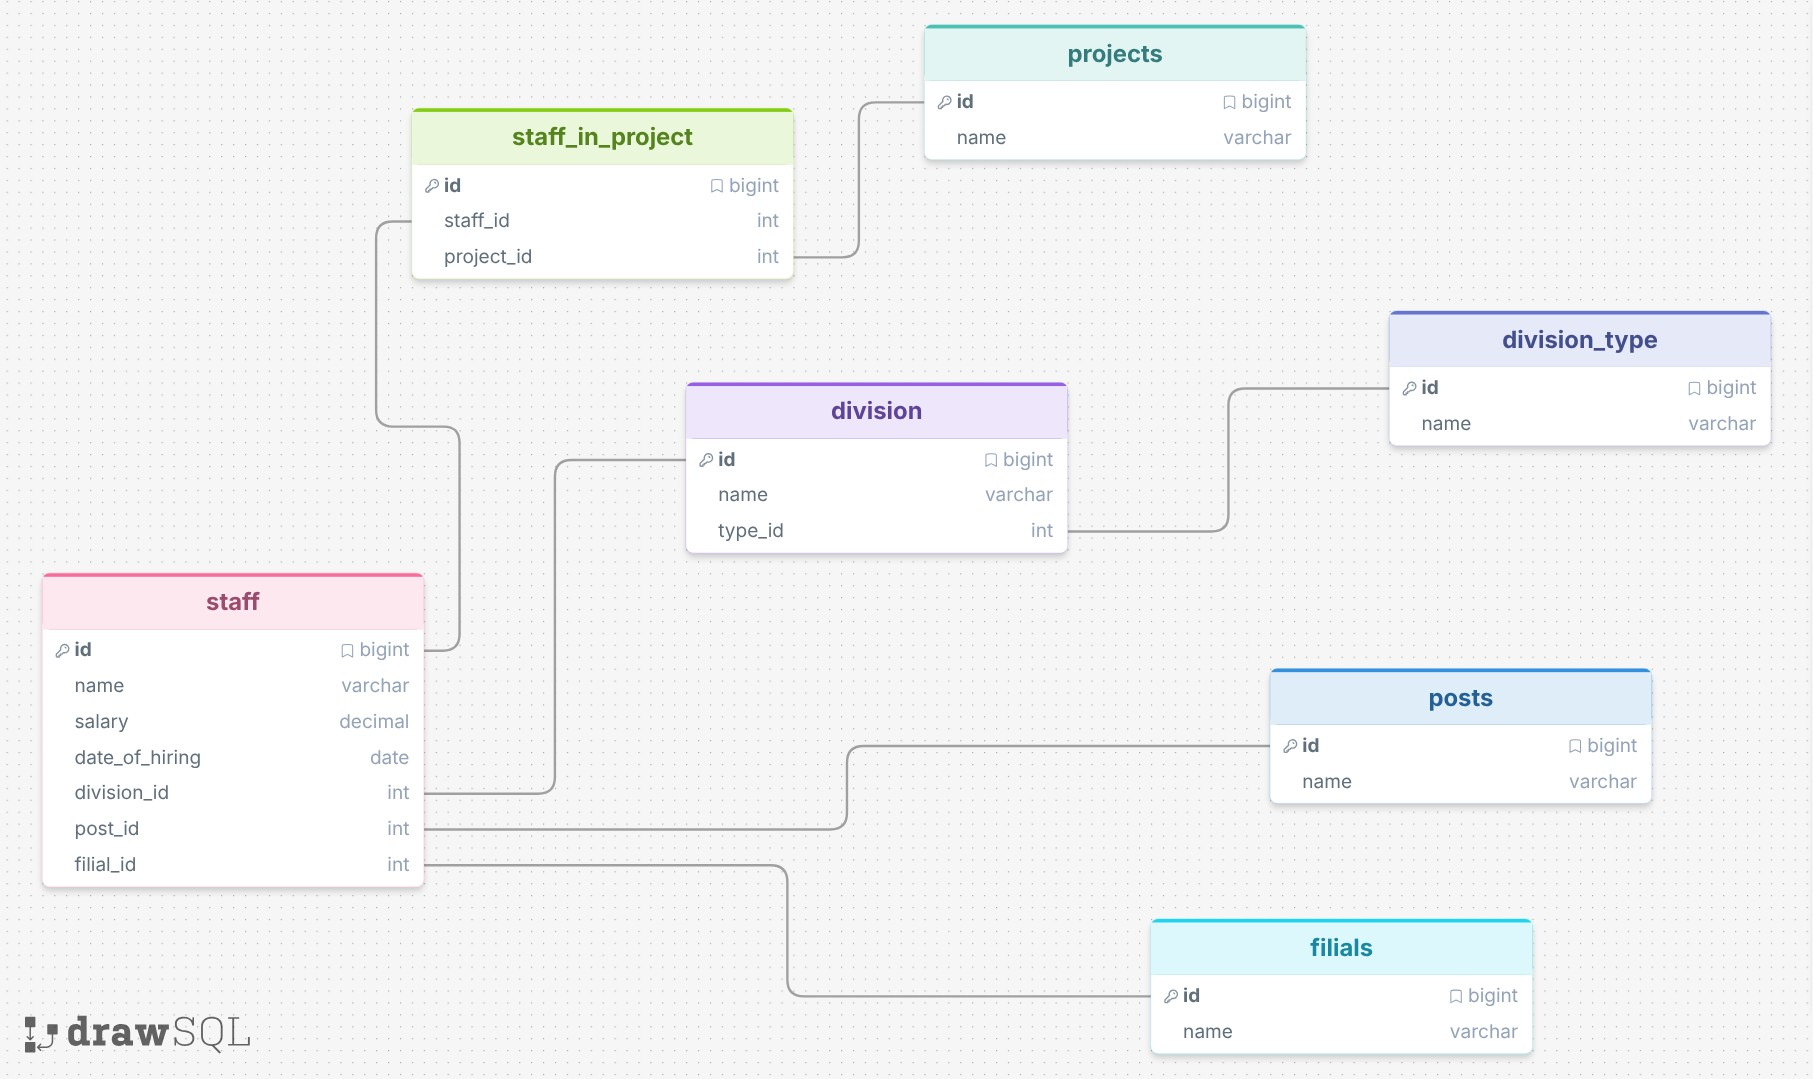
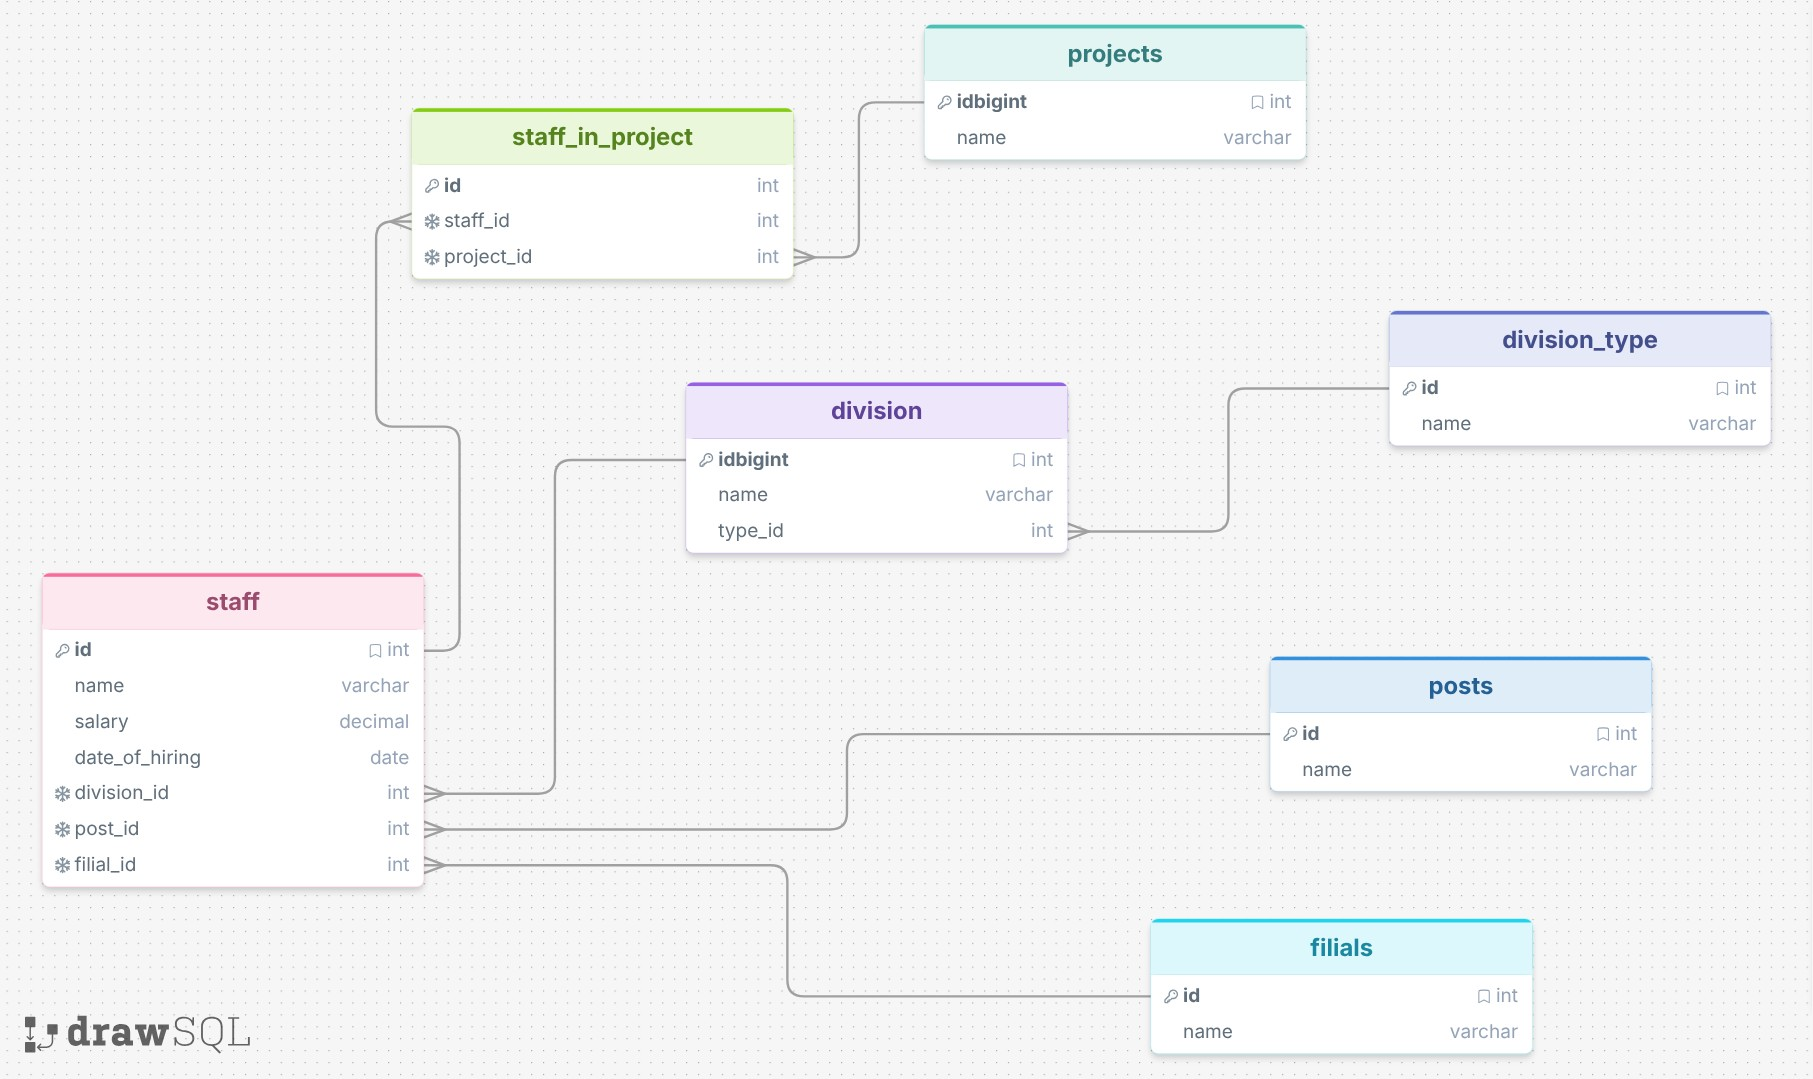
add homework 12-01 task 2

diff --git a/12/12-01/README.md b/12/12-01/README.md
@@ -80,4 +80,61 @@
 #### Выполнение задания
 
 
+SQL Скрипт
+
+```sql
+CREATE TABLE projects (
+    id int PRIMARY KEY,
+    name varchar(255) NOT NULL
+);
+
+CREATE TABLE division_type (
+    id int PRIMARY KEY,
+    name varchar(255) NOT NULL
+);
+
+CREATE TABLE division (
+    id int PRIMARY KEY,
+    name varchar(255) NOT NULL,
+    type_id int NOT NULL,
+    foreign key (type_id) references division_type(id)
+);
+
+CREATE TABLE posts (
+    id int PRIMARY KEY,
+    name varchar(255) NOT NULL
+);
+
+CREATE TABLE filials (
+    id int PRIMARY KEY,
+    name varchar(255) NOT NULL
+);
+
+CREATE TABLE staff (
+    id int PRIMARY KEY,
+    name varchar(255) NOT NULL,
+    salary decimal NOT NULL,
+    date_of_hiring date NOT NULL,
+    division_id int NOT NULL,
+    post_id int NOT NULL,
+    filial_id int NOT NULL,
+    foreign key (division_id) references division(id),
+    foreign key (post_id) references posts(id),
+    foreign key (filial_id) references filials(id)
+);
+
+CREATE TABLE staff_in_project (
+    id int PRIMARY KEY,
+    staff_id int NOT NULL,
+    project_id int NOT NULL,
+    foreign key (staff_id) references staff(id),
+    foreign key (project_id) references projects(id)
+);
+
+```
+
+Результат работы скрипта
+
+![task2_pic1](./img/02/task2_pic1.png)
+
 ---

diff --git a/README.md b/README.md
@@ -42,4 +42,4 @@
 
 ### 12. Реляционные базы данных и администрирование баз данных
 
-1. [**11-01** - Базы данных](./12/12-01/README.md)
+1. [**12-01** - Базы данных](./12/12-01/README.md)
